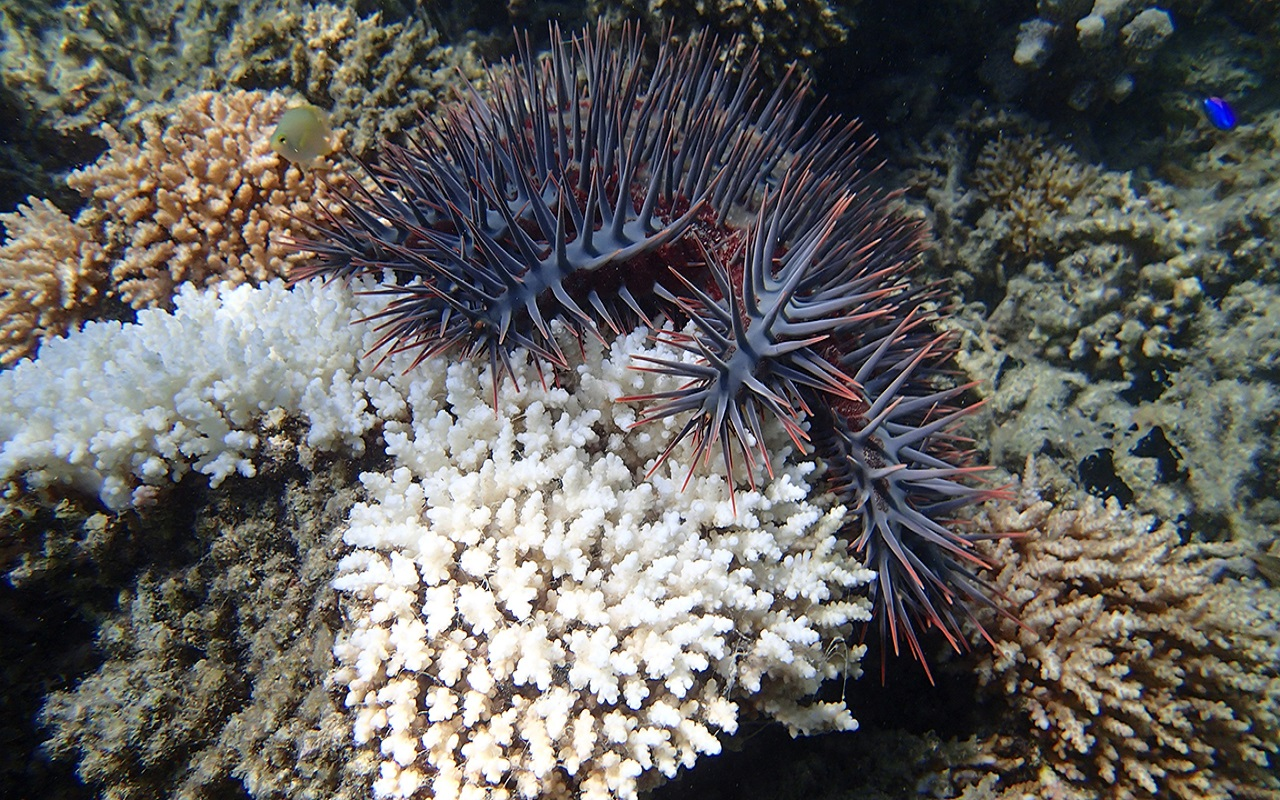
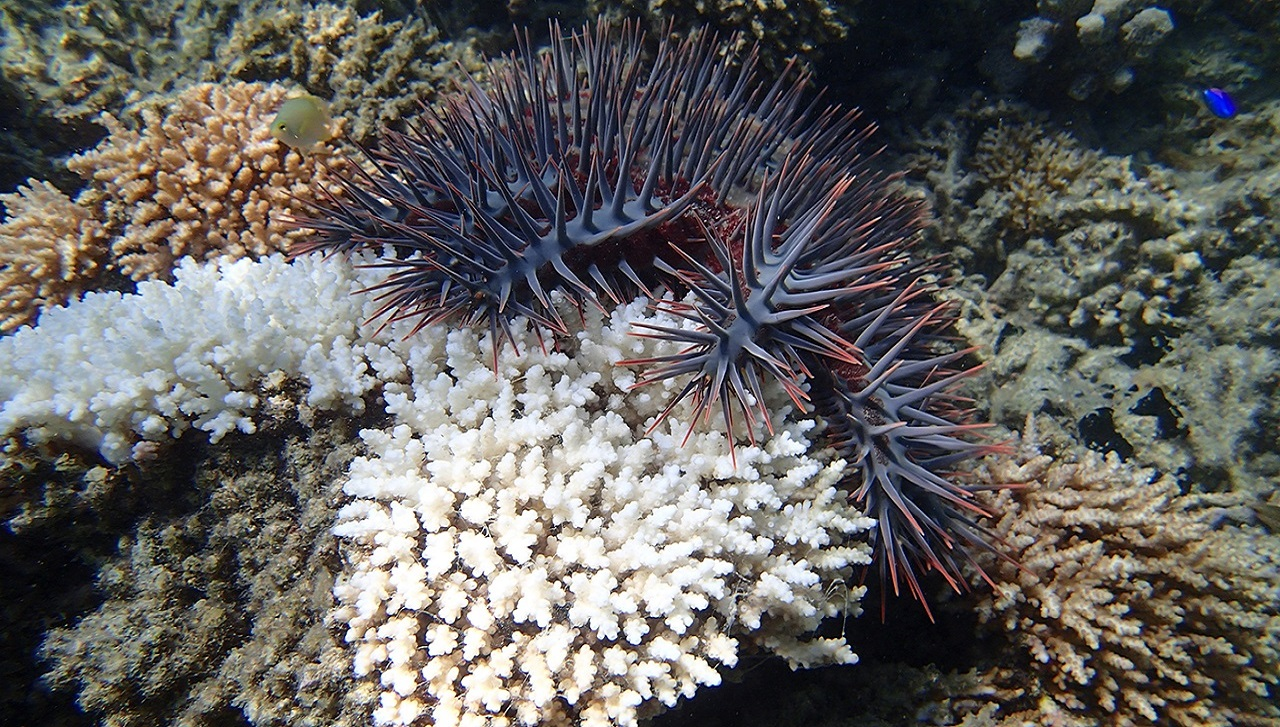
redimension image + lien site web + indication mode + play lorsque on change de diapo

Changed region(s): [[0.5, 0.4237, 0.5625, 0.4539], [0.2812, 0.4237, 0.3125, 0.4539]]

diff --git a/css/index.css b/css/index.css
@@ -580,7 +580,7 @@ input[type=checkbox], input[type=radio] {
 /*animation*/
 .Slides {
   width: 1280px;
-  height: 800px;
+  height: 727px;
 }
 #btnSlides a {
   width: 6%;
@@ -666,7 +666,7 @@ input[type=checkbox], input[type=radio] {
   font-weight: bold;
   width: 300px;
   position: absolute;
-  top:95px;
+  top:73px;
   left:895px;
 }
 
@@ -702,32 +702,14 @@ input[type=checkbox], input[type=radio] {
   top:450px;
   left:70px;
 }
-/*
-.suite_texte{
-  display: none;
-}
 
-.Slides a:hover {
-  color: red !important;
-  opacity: 0.2;
+#lien_site_web{
+  color: black;
+  position: absolute;
+  top:13px;
+  left: 650px;
+  font-size: 14px;
 }
-
-.Slides a {
-  color: red !important;
-  opacity: 0.5;
-}
-
-a{
-  text-decoration: none!important;
-}
-
-a:hover{
-  text-decoration: none!important;
-}
-
-.btn_suite{
-  font-size: 35px;
-}*/
 
 .phrase_en_bas{
   font-weight: bold;
@@ -735,7 +717,7 @@ a:hover{
   background-color: rgba(255, 255, 255, 0.5);
   color: black;
   position: absolute;
-  top:730px;
+  top:660px;
 }
 
 .phrase_1{
@@ -766,7 +748,7 @@ a:hover{
   color: #F7811B;
   font-size: 25px;
   position: absolute;
-  top:740px;
+  top:675px;
   left:1242px;
 }
 /*Demo css*/
@@ -892,11 +874,20 @@ a:hover{
   margin: 0 auto;
 }
 
-/*decomte retour menu*/
+/*décompte retour menu*/
 #decompteMenu{
   display: inline-block;
   padding: 8px;
   margin-top: 2px;
   margin-bottom: 0;
   background-color: #EE9A4D;
+}
+
+/*indication changer de mode*/
+
+#indication_mode{
+  position: absolute;
+  top: 12px;
+  left: -296px
+
 }

diff --git a/js/index.js b/js/index.js
@@ -61,7 +61,7 @@ var app = {
     // Application Constructor
     initialize: function() {
         //revien au menu au bout de 60s
-        app.revenirAuMenu(60000, 60);     
+        app.revenirAuMenu(120000, 120);     
         this.bindEvents();
         if(app.getUrlVars()["stat"] == null){
             window.location.href="./index.html?stat=off&?id="+app.getUrlVars()["id"];
@@ -77,7 +77,6 @@ var app = {
                 app.switchOnline(0);
                 //On affiche le formulaire
                 document.getElementById("contentoff").id = "content";
-                window.alert("Pour passer en mode En Ligne cliquez sur le bouton Hors Ligne et vice versa!");
                 //console.log("On affiche le formulaire");
              },
             // si on EST connecté
@@ -117,7 +116,7 @@ var app = {
         //afficher la liste
         db.listCOT();
         //revien au menu au bout de 60s
-        app.revenirAuMenu(60000, 60);
+        app.revenirAuMenu(120000, 120);
     },
     // Bind Event Listeners
     bindEvents: function() {
@@ -866,6 +865,12 @@ var app = {
         }
         mycompte = mycompte + n -1;
         app.redemarAuto(mycompte);
+        if(play == false){
+            app.redemarAuto(mycompte - 1);
+            play = true;
+            clearTimeout(settimeRetourMenu);
+            document.getElementById("playPause").className = "glyphicon glyphicon-play";
+        }
     },
 
     //on arrête ou on redémarre le diapo

diff --git a/index.html b/index.html
@@ -51,10 +51,12 @@
 				<nav class="navbar navbar-default navbar-fixed-top custom-navbar" role="navigation">
 					<div data-role="header">
 						<div data-role="controlgroup" data-type="horizontal" class="ui-mini ui-btn-right">
+							<p id="indication_mode">Cliquez sur le bouton pour changer de mode ==></p>
 							<p id="decompteMenu"></p>
 							<button onclick="return app.changeStatut()" class="ui-btn ui-btn-icon-right fa fa-signal" id="onlinelist"></button>
 							<button id="btn-refresh" onclick="return app.reloadForm()" class="ui-btn ui-btn-icon-right fa fa-refresh"></button>
 							<button id="btn-send" onclick="return app.submitForm()" class="ui-btn ui-btn-icon-right fa fa-paper-plane invalid"></button>
+
 						</div>
 						<div id="navbar" data-role="collapsible" data-collapsed-icon="bars" data-expanded-icon="delete" class="ui-btn-left ui-mini">
 							<h6>Signaler des Acanthasters</h6>

diff --git a/animation.html b/animation.html
@@ -99,6 +99,7 @@
 
 			<div onclick="app.playPause();" class="Slides">
 				<img src="img/Box_oreanet.jpg">
+				<p id="lien_site_web">http://oreanet.ird.nc/</p>
 				<p class="text_5">
 		            La Nouvelle-Calédonie est vaste ! Qui, mieux que les usagers du lagon, qu’ils soient pêcheurs, plongeurs ou amateurs de ballades nautiques, saurait garder un œil sur nos récifs ? Depuis son lancement par l’IRD en 2014, la plate-forme de suivi participatif OREANET (« Oceania Regional Acanthaster Network ») permet à toute personne observant des acanthasters de les signaler via un site web ou une application smartphone gratuite.
 	        	</p>

diff --git a/list.html b/list.html
@@ -37,6 +37,7 @@
 				<nav class="navbar navbar-default navbar-fixed-top custom-navbar" role="navigation">
 					<div data-role="header">
 						<div data-role="controlgroup" data-type="horizontal" class="ui-mini ui-btn-right">
+							<p id="indication_mode">Cliquez sur le bouton pour changer de mode ==></p>
 							<p id="decompteMenu"></p>
 							<button onclick="return app.changeStatut()" class="ui-btn ui-btn-icon-right fa fa-signal" id="onlinelist"></button>
 						</div>
